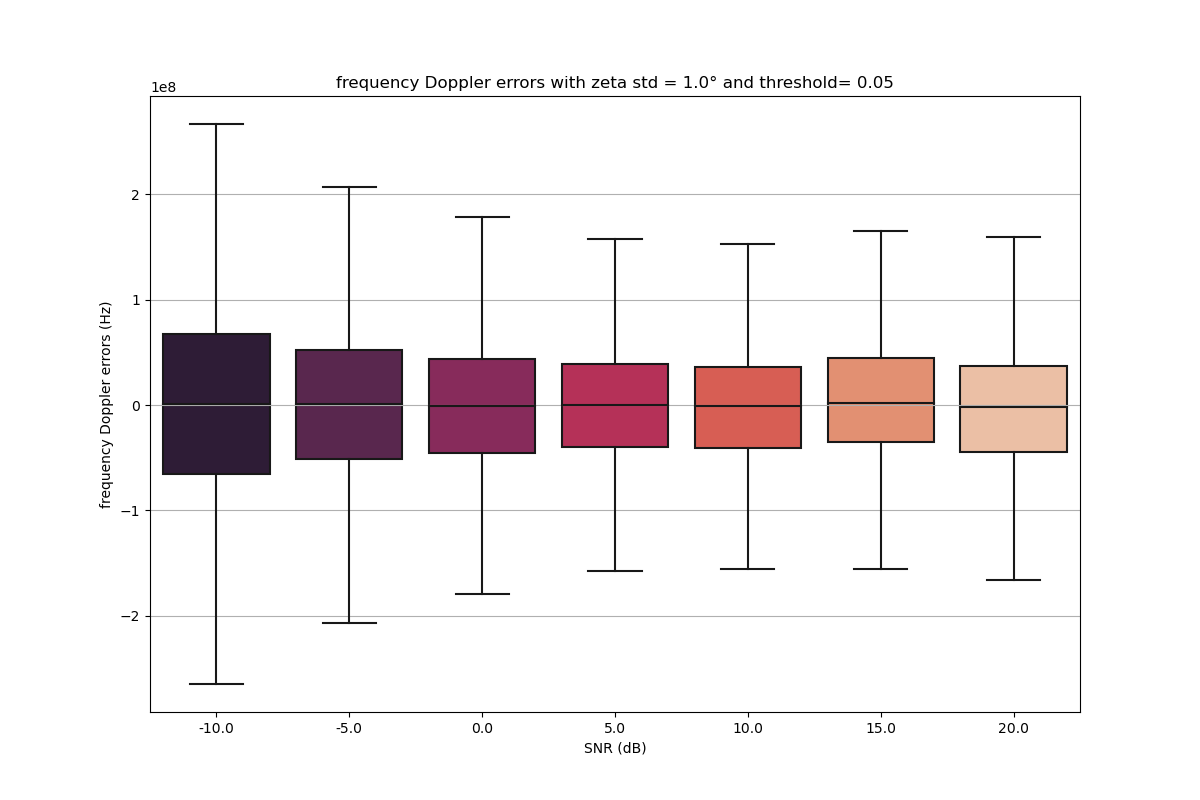
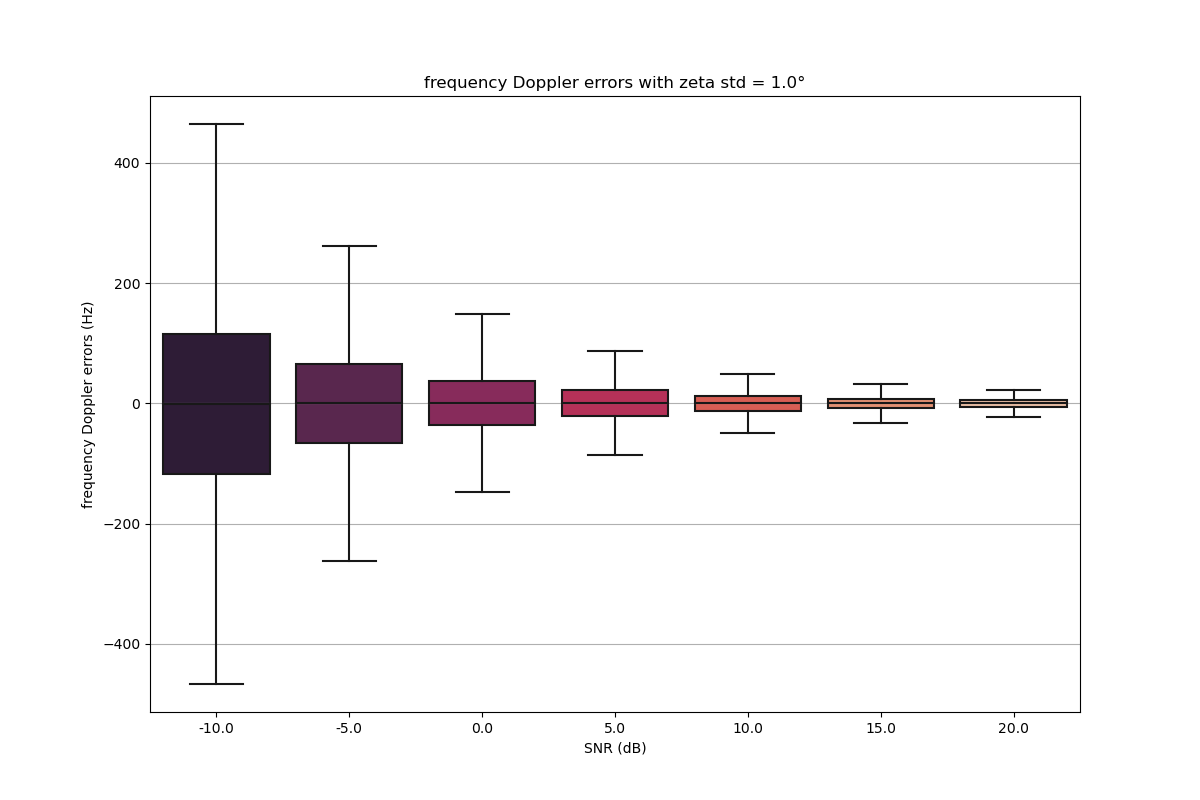
new results

diff --git a/simulation.py b/simulation.py
@@ -2,53 +2,40 @@ import numpy as np
 import matplotlib.pyplot as plt
 import seaborn as sns
 
-def simplify(angle):
-    while True:
-        if angle>2*np.pi:
-            angle = angle-2*np.pi
-        if angle<0:
-            angle = 2*np.pi+angle
-        if 0<angle<2*np.pi:
-            return angle
-
-def solve_system(noise, zeta_std, phase_std, zetas, phases, T=0.57*10**(-9), l=0.005):
+def solve_system(noise, zeta_std, phase_std, zetas, phases, T=0.27*10**(-3), l=0.005):
     if noise:
         n_zetas = zetas + np.random.normal(0,zeta_std,3)
         n_phases = phases + np.random.normal(0,phase_std,4)
     else:
         n_zetas = zetas
         n_phases = phases         
-    alpha = (n_phases[3]-n_phases[1])*np.cos(n_zetas[1])
-    beta = (n_phases[3]-n_phases[1])*np.sin(n_zetas[1])
-    delta = n_phases[2]-n_phases[3]
-    gamma = (n_phases[1]-n_phases[2])*np.cos(n_zetas[2])
-    epsilon = (n_phases[1]-n_phases[2])*np.sin(n_zetas[2])
+    alpha = (n_phases[1]-n_phases[3])*np.cos(n_zetas[2])
+    beta = (n_phases[1]-n_phases[3])*np.sin(n_zetas[2])
+    delta = n_phases[2]-n_phases[1]
+    gamma = (n_phases[3]-n_phases[2])*np.cos(n_zetas[1])
+    epsilon = (n_phases[3]-n_phases[2])*np.sin(n_zetas[1])
     #pol = np.polynomial.polynomial.Polynomial([-(alpha+delta+gamma),2*(beta+epsilon),(alpha+delta+gamma)])
     #t = pol.roots()
     t = np.roots([-(alpha+delta+gamma),2*(beta+epsilon),(alpha+delta+gamma)])
     #t = np.zeros(2)
     f_d = np.zeros((2))
-    f_off = np.zeros(4)
     v = np.zeros(2)
     #t[0] = (-2*(beta+epsilon) + np.sqrt((2*(beta+epsilon))**2+4*(alpha+delta+gamma)**2))/(-2*(alpha+delta+gamma))
     #t[1] = (-2*(beta+epsilon) - np.sqrt((2*(beta+epsilon))**2+4*(alpha+delta+gamma)**2))/(-2*(alpha+delta+gamma))
     eta = 2*np.arctan(t)
-    f_d[0] = (n_phases[0]-n_phases[1]-(((n_phases[3]-n_phases[1])*(np.cos(n_zetas[0]-eta[0])-np.cos(eta[0])))/(np.cos(n_zetas[2]-eta[0])-np.cos(eta[0]))))/(2*np.pi*T)
-    f_d[1] = (n_phases[0]-n_phases[1]-(((n_phases[3]-n_phases[1])*(np.cos(n_zetas[0]-eta[1])-np.cos(eta[1])))/(np.cos(n_zetas[2]-eta[1])-np.cos(eta[1]))))/(2*np.pi*T)
-    v[0] = l*(n_phases[3]-n_phases[1])/(np.cos(n_zetas[2]-eta[0])-np.cos(eta[0]))
-    v[1] = l*(n_phases[3]-n_phases[1])/(np.cos(n_zetas[2]-eta[1])-np.cos(eta[1]))
-    f_off[0] = n_phases[1]-(v[0]/l*np.cos(eta[0]))
-    f_off[1] = n_phases[1]-(v[0]/l*np.cos(eta[1]))
-    f_off[2] = n_phases[1]-(v[1]/l*np.cos(eta[0]))
-    f_off[3] = n_phases[1]-(v[1]/l*np.cos(eta[1]))
+    f_d[0] = (n_phases[0]-n_phases[3]-(((n_phases[2]-n_phases[3])*(np.cos(n_zetas[0]-eta[0])-np.cos(eta[0])))/(np.cos(n_zetas[2]-eta[0])-np.cos(eta[0]))))/(2*np.pi*T)
+    f_d[1] = (n_phases[0]-n_phases[3]-(((n_phases[2]-n_phases[3])*(np.cos(n_zetas[0]-eta[1])-np.cos(eta[1])))/(np.cos(n_zetas[2]-eta[1])-np.cos(eta[1]))))/(2*np.pi*T)
+    v[0] = l/(2*np.pi*T)*(n_phases[2]-n_phases[3])/(np.cos(n_zetas[2]-eta[0])-np.cos(eta[0]))
+    v[1] = l*(n_phases[2]-n_phases[3])/((np.cos(n_zetas[2]-eta[1])-np.cos(eta[1]))*2*np.pi*T)
+    f_off = n_phases[3]/(2*np.pi*T)-((n_phases[2]-n_phases[3])*np.cos(eta[0])/(np.cos(n_zetas[2]-eta[0])-np.cos(eta[0])))
     return eta, f_d, v, f_off, alpha, delta, gamma, n_zetas
 
-def check_phases(eta, f_d, v, f_off, zetas, l=0.005):
+def check_phases(eta, f_d, v, f_off, zetas, T=0.27*10**(-3), l=0.005):
     c_phases = np.zeros(4)
-    c_phases[0] = simplify(f_d+f_off+(v/l*np.cos(zetas[0]-eta[0])))
-    c_phases[1] = simplify(f_off+(v/l*np.cos(eta[0])))
-    c_phases[2] = simplify(f_off+(v/l*np.cos(zetas[1]-eta[0])))
-    c_phases[3] = simplify(f_off+(v/l*np.cos(zetas[2]-eta[0])))
+    c_phases[0] = (2*np.pi*T*(f_d+(v/l*np.cos(zetas[0]-eta))+f_off))#%np.pi 
+    c_phases[1] = (2*np.pi*T*(v/l*np.cos(zetas[1]-eta)+f_off))#%np.pi
+    c_phases[2] = (2*np.pi*T*(v/l*np.cos(zetas[2]-eta)+f_off))#%np.pi
+    c_phases[3] = (2*np.pi*T*(v/l*np.cos(eta)+f_off))#%np.pi
     return c_phases
 
 def boxplot_plot(errors, xlabel, ylabel, xticks, title, name=''):
@@ -60,79 +47,74 @@ def boxplot_plot(errors, xlabel, ylabel, xticks, title, name=''):
     plt.xticks(np.arange(len(xticks)), xticks)
     plt.title(title)
     plt.savefig('plots/'+name+'.png')
-    #plt.show()
+    plt.show()
 
-zetas = np.random.uniform(-np.pi/4,np.pi/4,2)
-phases = np.random.uniform(0,2*np.pi,5)
+def check_system():
+    for i in range(10000):
+        zetas = np.random.uniform(-np.pi/4,np.pi/4,3)
+        phases = np.random.uniform(0,2*np.pi,4)
+        eta_n, f_d_n, v_n, f_off_n, alpha_n, delta_n, gamma_n, n_zetas = solve_system(False, 0, 0, zetas, phases)
+        
+        c_phases = check_phases(eta_n[0], f_d_n[0], v_n[0], f_off_n[0], zetas)
+        for j in range(4):
+            if c_phases[j]-phases[j] > 10**(-10):
+                print(c_phases[j]-phases[j])
 
-
-#for i in range(10000):
-zetas = np.random.uniform(-np.pi/4,np.pi/4,3)
-phases = np.random.uniform(0,2*np.pi,4)
-eta_n, f_d_n, v_n, f_off_n, alpha_n, delta_n, gamma_n, n_zetas = solve_system(False, 0, 0, zetas, phases)
-print(f_d_n)
-print(v_n)
-print(f_off_n)
-
-
-
-# c_phases = check_phases(eta_n, f_d_n[0], v_n[0], f_off_n[0], zetas)
-# for j in range(4):
-#     if c_phases[j]-phases[j] > 10**(-10):
-#         print(c_phases[j]-phases[j])
+def get_input():
+    f_d = np.random.uniform(-1000,1000)
+    f_off = np.random.normal(100000,10000)
+    v = np.random.uniform(-5,5)
+    while True:
+        check = True
+        zetas = np.random.uniform(-np.pi/4,np.pi/4,3)
+        eta = np.random.uniform(0,2*np.pi)
+        for z in zetas:
+            if z-(2*eta)<1e-10:
+                check = False
+                #print('problem 1')
+            if z<1e-10:
+                check = False
+                #print('problem 2')
+        if check:
+            break
+    phases = check_phases(eta, f_d, v, f_off, zetas)
+    return phases, zetas, eta, f_d, v, f_off
 
 SNR = np.array([-10,-5,0,5,10,15,20])
 SNR = np.power(10,SNR/10)
 p_std = np.sqrt(1/(2*256*SNR))
-zetas_std = [1,3,5,7,10]
-threshold = 0.05
-for zeta_std in np.deg2rad(zetas_std):
-    tot_eta_errors = []
-    tot_fd_errors = []    
+zeta_std = [1,3,5,7,10]
+for z_std in np.deg2rad(zeta_std):
+    tot_eta_error = []
+    tot_f_d_error = []
+    tot_v_error = []
+    tot_f_off_error = []
     for phase_std,snr in zip(p_std,SNR):
         N = 10000 # number of simulations
-        eta_errors = []
-        f_d_errors = []
-        f_off_errors = []
-        for ind in range(N):
-            zetas = np.random.uniform(0,np.pi/4,3)
-            phases = np.random.uniform(0,2*np.pi,4)
-            eta_n, f_d_n, v_n, f_off_n, alpha_n, delta_n, gamma_n, n_zetas = solve_system(True, zeta_std, phase_std, zetas, phases) # with added Gaussian noise
-            eta, f_d, v, f_off, alpha, delta, gamma, zetas = solve_system(False, zeta_std, phase_std, zetas, phases) # without noise, exact solution
-            for i in range(len(n_zetas)):
-                n_zetas[i] = simplify(n_zetas[i])
-            for i in range(len(eta_n)):
-                eta_n[i] = simplify(eta_n[i])
-                eta[i] = simplify(eta[i])
-            skip = False
-            if abs(alpha_n+delta_n+gamma_n) < threshold:
-                skip = True
-                #eta = [np.pi/2,-np.pi/2]
-            for i in range(3):
-                for j in range(2):
-                    if abs(n_zetas[i]-(2*eta_n[j]))<threshold:
-                        skip = True
-                    if abs(eta_n[j])<threshold:
-                        skip = True
-                    if abs(n_zetas[i])<threshold:
-                        skip=True
-            if skip:
-                continue
-            eta = eta[0]
-            eta_n = eta_n[0]
-            f_d = f_d[0]
-            f_d_n = f_d_n[0]
-            eta_errors.append(np.rad2deg(eta_n-eta))
-            f_d_errors.append(f_d_n-f_d)
-            f_off_errors.append(f_off_n-f_off)
-        tot_eta_errors.append(eta_errors)
-        tot_fd_errors.append(f_d_errors)
-        print('zeta std: ' + str(np.rad2deg(zeta_std)) + '°')
-        print('phase_std: ' + str(np.rad2deg(phase_std)) + '°')
-        print('SNR: ' + str(10*np.log10(snr)) + ' dB')
-        print('eta errors mean: ' + str(np.mean(eta_errors)) + ', std: ' + str(np.std(eta_errors)))
-        print('f_d errors mean: ' + str(np.mean(f_d_errors)) + ', std: ' + str(np.std(f_d_errors)))
-        print('f_off errors mean: ' + str(np.mean(f_off_errors)) + ', std: ' + str(np.std(f_off_errors)))
-        print('\n')
-    boxplot_plot(tot_eta_errors, "SNR (dB)", "eta errors (°)", 10*np.log10(SNR), "eta errors with zeta std = " + str(np.rad2deg(zeta_std)) + "° and threshold= " + str(threshold), 'eta_errors_zeta_std' + str(np.rad2deg(zeta_std)))
-    boxplot_plot(tot_fd_errors, "SNR (dB)", "frequency Doppler errors (Hz)", 10*np.log10(SNR), "frequency Doppler errors with zeta std = " + str(np.rad2deg(zeta_std)) + "° and threshold= " + str(threshold), 'fd_errors_zeta_std' + str(np.rad2deg(zeta_std)))
+        eta_error = []
+        f_d_error = []
+        f_off_error = []
+        v_error = []
+        for i in range(N):
+            phases,zetas,eta,f_d,v,f_off = get_input()
+            eta_n, f_d_n, v_n, f_off_n, alpha_n, delta_n, gamma_n, n_zetas= solve_system(True, z_std, phase_std, zetas, phases)
+            eta_error.append(eta-eta_n[1])
+            f_d_error.append(f_d-f_d_n[0])
+            v_error.append(v-v_n[1])
+            f_off_error.append(f_off-f_off_n)
+        tot_eta_error.append(eta_error)
+        tot_f_d_error.append(f_d_error)
+        tot_v_error.append(v_error)
+        tot_f_off_error.append(f_off_error)
+    boxplot_plot(tot_eta_error, "SNR (dB)", "eta errors (°)", 10*np.log10(SNR), "eta errors with zeta std = " + str(np.rad2deg(z_std)) + "°", 'eta_errors_zeta_std' + str(np.round(np.rad2deg(z_std),1)))
+    boxplot_plot(tot_f_d_error, "SNR (dB)", "frequency Doppler errors (Hz)", 10*np.log10(SNR), "frequency Doppler errors with zeta std = " + str(np.rad2deg(z_std)) + "°", 'fd_errors_zeta_std' + str(np.round(np.rad2deg(z_std),1)))
+
+print('eta mean error: ' + str(np.mean(eta_error)))
+print('Doppler mean error: ' + str(np.mean(f_d_error)))
+print('speed mean error: ' + str(np.mean(v_error)))
+print('frequency offset mean error: ' + str(np.mean(f_off_error)))
+
+# print('eta: ' + str(eta_n) + '  real eta: ' + str(eta))
+# print('Doppler: ' + str(f_d_n) + '  real Doppler: ' + str(f_d))
+# print('speed: ' + str(v_n) + '  real speed: ' + str(v))
+# print('frequency offset: ' + str(f_off_n) + '  real frequency offset: ' + str(f_off))
